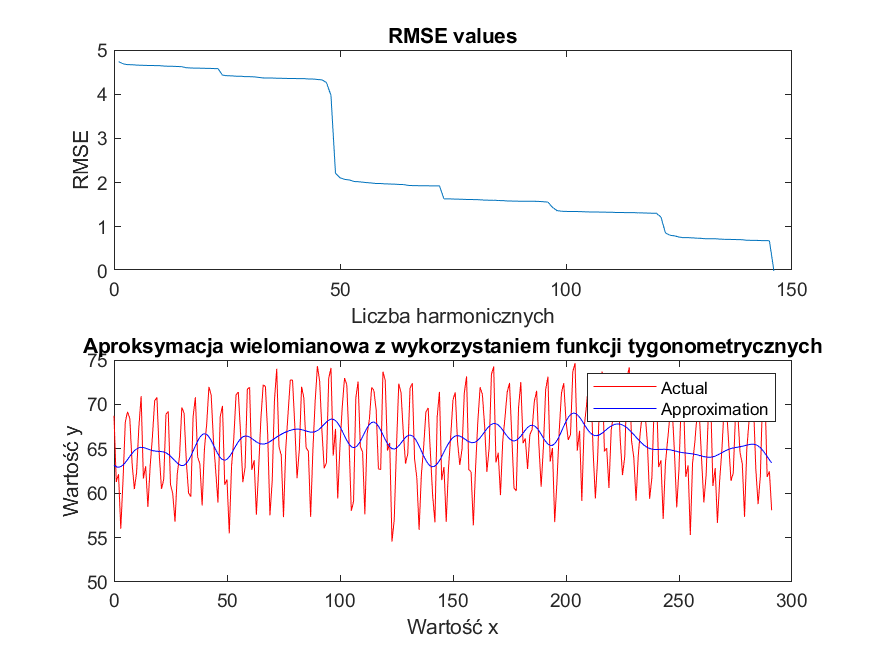
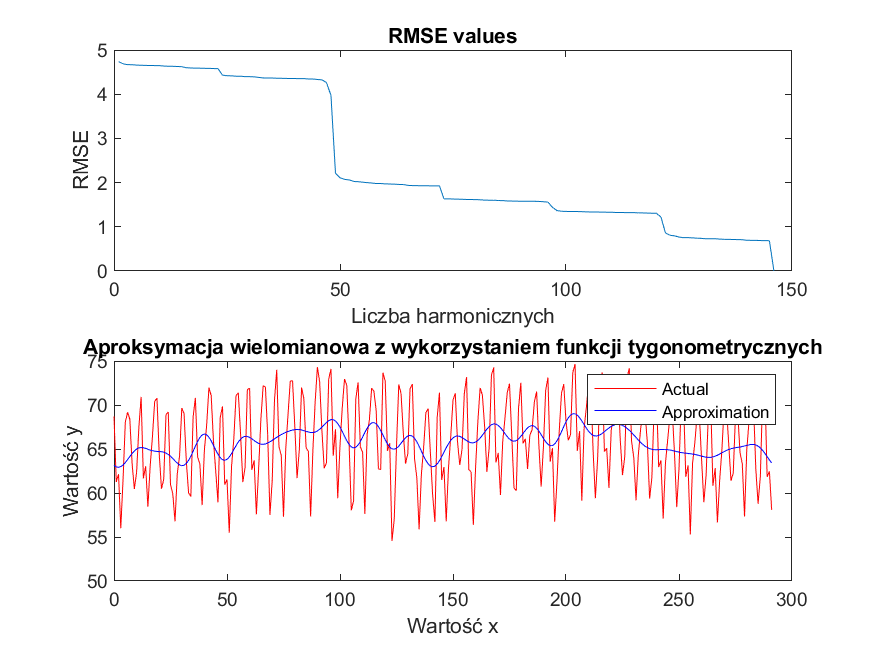
Lab7 solved

diff --git a/Lab7/zad4/monte_carlo_accuracy_evaluation.m b/Lab7/zad4/monte_carlo_accuracy_evaluation.m
@@ -1,0 +1,89 @@
+function [ft_5, yrmax, Nt, xr, yr, integration_error] = monte_carlo_accuracy_evaluation()
+    % Numeryczne całkowanie metodą Monte Carlo.
+    %
+    % ft_5 - gęstość funkcji prawdopodobieństwa dla n=5
+    %
+    % yrmax - maksymalna dopuszczalna wartość współrzędnej y losowanych punktów
+    %
+    % Nt - wektor wierszowy zawierający liczby losowań, dla których obliczano
+    %     wektor błędów całkowania integration_error.
+    %
+    % [xr, yr] - tablice komórkowe zawierające informacje o wylosowanych punktach.
+    %     Tablice te mają rozmiar [1, length(Nt)]. W komórkach xr{1,i} oraz yr{1,i}
+    %     zawarte są współrzędne x oraz y wszystkich punktów zastosowanych
+    %     do obliczenia całki przy losowaniu Nt(1,i) punktów.
+    %
+    % integration_error - wektor wierszowy. Każdy element integration_error(1,i)
+    %     zawiera błąd całkowania obliczony dla liczby losowań równej Nt(1,i).
+    %     Zakładając, że obliczona wartość całki dla Nt(1,i) próbek wynosi
+    %     integration_result, błąd jest definiowany jako:
+    %     integration_error(1,i) = abs(integration_result - reference_value),
+    %     gdzie reference_value to wartość referencyjna całki.
+
+    reference_value = 0.0473612919396179; % wartość referencyjna całki
+
+    ft_5 = failure_density_function(5);
+    xrmax = 5;
+    yrmax = ft_5 + rand() * ft_5;
+
+
+    Nt = 5:50:10^4;
+    xr = [];
+    yr = [];
+
+    for i = 1:length(Nt)
+        N = Nt(i);
+        x = linspace(0,5,N+1);
+
+
+        [val, xrand, yrand] = monte_carlo_integral(N, xrmax, yrmax);
+        xr{1, i} = xrand;
+        yr{1, i} = yrand;
+        integration_error(1, i) = abs(val - reference_value);
+    end
+
+    loglog(Nt, integration_error);
+    xlabel("Liczba przedziałów");
+    ylabel("Błąd");
+    legend("Liczba przedziałów", "Błąd");
+    title("Metoda Monte Carlo");
+    saveas(gcf, "zadanie4.png");
+
+
+end
+
+function [integral_approximation, x, y] = monte_carlo_integral(N, xmax, ymax)
+    % Oblicza przybliżoną wartość całki oznaczonej z funkcji gęstości
+    % prawdopodobieństwa (failure_density_function) przy użyciu
+    % metody Monte Carlo.
+    %
+    % N – liczba losowanych punktów
+    % xmax – koniec przedziału całkowania [0, xmax]
+    % ymax – górna granica wartości funkcji w przedziale [0, xmax]
+    %        (musi spełniać warunek ymax ≥ max(f(x)))
+    % integral_approximation – przybliżona wartość całki
+
+    Nu = 0;
+    Nl = 0;
+    x = rand(1, N) * xmax;   % x w [0, xmax]
+    y = rand(1, N) * ymax;   % y w [0, ymax]
+
+    for i = 1:length(x)
+        if y(i) > failure_density_function(x(i))
+           Nu = Nu + 1;
+        else
+            Nl = Nl + 1;
+        end
+    end
+
+    area = xmax * ymax;
+
+
+    integral_approximation = (Nl/N)*area;
+end
+
+
+function ft = failure_density_function(t)
+   
+    ft = exp(1)^((-(t-10)^2)/(2*9))/(3*sqrt(2*pi));
+end

diff --git a/Lab7/zad5/get_lake_depth.m b/Lab7/zad5/get_lake_depth.m
@@ -1,0 +1,44 @@
+function f = get_lake_depth( x, y )
+    % Zwraca aproksymację głębokości jeziora w punkcie (x,y).
+    % Zmienna f określa głębokość jeziora w metrach.
+
+    % Sprawdzenie liczby argumentów
+    if nargin ~= 2
+        error('Funkcja wymaga dokładnie dwóch argumentów: x oraz y.');
+    end
+
+    % Sprawdzenie typu danych
+    if ~isnumeric(x) || ~isnumeric(y)
+        error('Argumenty x i y muszą być typu numerycznego (double).');
+    end
+
+    if ~isa(x, 'double') || ~isa(y, 'double')
+        error('Argumenty x i y muszą być typu double.');
+    end
+
+    % Sprawdzenie wymiarów: wektory wierszowe
+    if ~isrow(x) || ~isrow(y)
+        error('Zarówno x, jak i y muszą być wektorami wierszowymi.');
+    end
+
+    % Sprawdzenie zgodności rozmiarów
+    if length(x) ~= length(y)
+        error('Wektory x i y muszą mieć ten sam rozmiar.');
+    end
+
+
+    x = x/100;
+    y = y/100;
+
+    w1=5; a1=30; x1=0.2; y1=0.3;
+    w2=6; a2=40; x2=0.6; y2=1.0;
+    w3=7; a3=50; x3=0.9; y3=0.5;
+    w4=6; a4=40; x4=0.6; y4=0.1;
+    w5=7; a5=70; x5=0.1; y5=0.95;
+    w6=-5; a6=10; x6=0.5; y6=0.5;
+    f=10 + w1*exp(-a1*((x-x1).^2+(y-y1).^2))+w2*exp(-a2*((x-x2).^2+(y-y2).^2))+w3*exp(-a3*((x-x3).^2+(y-y3).^2))+w4*exp(-a4*((x-x4).^2+(y-y4).^2))+w5*exp(-a5*((x-x5).^2+(y-y5).^2))+w6*exp(-a6*((x-x6).^2+(y-y6).^2));
+    f = f - 9.5;
+    f = f * 10;
+    f(f>0) = 0;
+end
+

diff --git a/Lab7/zad3/simson_rule_accurac_evaluation.m b/Lab7/zad3/simson_rule_accurac_evaluation.m
@@ -1,0 +1,46 @@
+function [ft_5, integral_1000, Nt, integration_error] = simpson_rule_accuracy_evaluation()
+
+
+    reference_value = 0.0473612919396179; % wartość wzorcowa całki
+
+    ft_5 = failure_density_function(5);
+    N = 1000; % liczba podprzedziałów całkowania
+    x = linspace(0,5,N+1); % liczba punktów = liczba podprzedziałów całkowania + 1
+    integral_1000 = simpson_rule(x);
+
+    Nt = 5:50:10^4;
+    for i = 1:length(Nt)
+        N = Nt(i);
+        x = linspace(0,5,N+1);
+        val = simpson_rule(x);
+        integration_error(1, i) = abs(val - reference_value);
+    end
+
+    loglog(Nt, integration_error);
+    xlabel("Liczba przedziałów");
+    ylabel("Błąd");
+    legend("Liczba przedziałów", "Błąd");
+    title("Metoda Simpsona");
+    saveas(gcf, "zadanie3.png");
+    
+
+
+end
+
+function integral_approximation = simpson_rule(x)
+    result = 0;
+    for i = 1:length(x)-1
+        xi = x(i);
+        x2 = x(i+1);
+        dx = x2 - xi;
+
+        result = result + (failure_density_function(xi) + 4*(failure_density_function((x2+xi)/2)) + failure_density_function(x2));
+    end
+    integral_approximation = result*(dx/6);
+end
+
+
+function ft = failure_density_function(t)
+   
+    ft = exp(1)^((-(t-10)^2)/(2*9))/(3*sqrt(2*pi));
+end

diff --git a/Lab7/zad2/trapezoidal_rule_accuracy_evaluation.m b/Lab7/zad2/trapezoidal_rule_accuracy_evaluation.m
@@ -1,0 +1,46 @@
+function [ft_5, integral_1000, Nt, integration_error] = trapezoidal_rule_accuracy_evaluation()
+
+
+    reference_value = 0.0473612919396179; % wartość wzorcowa całki
+
+    ft_5 = failure_density_function(5);
+    N = 1000; % liczba podprzedziałów całkowania
+    x = linspace(0,5,N+1); % liczba punktów = liczba podprzedziałów całkowania + 1
+    integral_1000 = trapezoidal_rule(x);
+
+    Nt = 5:50:10^4;
+    for i = 1:length(Nt)
+        N = Nt(i);
+        x = linspace(0,5,N+1);
+        val = trapezoidal_rule(x);
+        integration_error(1, i) = abs(val - reference_value);
+    end
+
+    loglog(Nt, integration_error);
+    xlabel("Liczba przedziałów");
+    ylabel("Błąd");
+    legend("Liczba przedziałów", "Błąd");
+    title("Metoda trapezów");
+    saveas(gcf, "zadanie2.png");
+    
+
+
+end
+
+
+function integral_approximation = trapezoidal_rule(x)
+    result = 0;
+    for i = 1:length(x)-1
+        xi = x(i);
+        x2 = x(i+1);
+        dx = x2 - xi;
+        result = result + ((failure_density_function(xi) + failure_density_function(x2))/2)*dx;
+    end
+    integral_approximation = result;
+end
+
+
+function ft = failure_density_function(t)
+   
+    ft = exp(1)^((-(t-10)^2)/(2*9))/(3*sqrt(2*pi));
+end

diff --git a/Lab7/zad1/midpoint_rule_accuracy_evaluation.m b/Lab7/zad1/midpoint_rule_accuracy_evaluation.m
@@ -1,0 +1,46 @@
+function [ft_5, integral_1000, Nt, integration_error] = midpoint_rule_accuracy_evaluation()
+
+
+    reference_value = 0.0473612919396179; % wartość wzorcowa całki
+
+    ft_5 = failure_density_function(5);
+    N = 1000; % liczba podprzedziałów całkowania
+    x = linspace(0,5,N+1); % liczba punktów = liczba podprzedziałów całkowania + 1
+    integral_1000 = midpoint_rule(x);
+
+    Nt = 5:50:10^4;
+    for i = 1:length(Nt)
+        N = Nt(i);
+        x = linspace(0,5,N+1);
+        val = midpoint_rule(x);
+        integration_error(1, i) = abs(val - reference_value);
+    end
+
+    loglog(Nt, integration_error);
+    xlabel("Liczba przedziałów");
+    ylabel("Błąd");
+    legend("Liczba przedziałów", "Błąd");
+    title("Metoda prostokątów");
+    saveas(gcf, "zadanie1.png");
+    
+
+
+end
+
+
+function integral_approximation = midpoint_rule(x)
+    result = 0;
+    for i = 1:length(x)-1
+        xi = x(i);
+        x2 = x(i+1);
+        mid = (xi + x2) / 2;
+        dx = x2 - xi;
+        result = result + failure_density_function(mid) * dx;
+    end
+    integral_approximation = result;
+end
+
+function ft = failure_density_function(t)
+   
+    ft = exp(1)^((-(t-10)^2)/(2*9))/(3*sqrt(2*pi));
+end

diff --git a/Lab7/zad5/compute_lake_volume_monte_carlo.m b/Lab7/zad5/compute_lake_volume_monte_carlo.m
@@ -1,0 +1,29 @@
+function [x, y, z, zmin, lake_volume] = compute_lake_volume_monte_carlo()
+    % Wyznacza objętość jeziora metodą Monte Carlo.
+    %
+    % x/y/z - wektory wierszowe, które zawierają współrzędne x/y/z punktów
+    %       wylosowanych w celu wyznaczenia przybliżonej objętości jeziora
+    % zmin - minimalna dopuszczalna wartość współrzędnej z losowanych punktów
+    % lake_volume - objętość jeziora wyznaczona metodą Monte Carlo
+
+    N = 1e6;
+    x = 100*rand(1,N); % [m]
+    y = 100*rand(1,N); % [m]
+    
+    zmin = -50;
+    z = zmin*rand(1, N);
+    V = 100*100*50;
+    N1 = 0;
+    for i = 1:N
+        zlake = get_lake_depth(x(i), y(i));
+        if zlake > z(i)
+            N1 = N1 + 1;
+        end
+
+    end
+
+
+
+    lake_volume = (N1/N)*V;
+
+end
